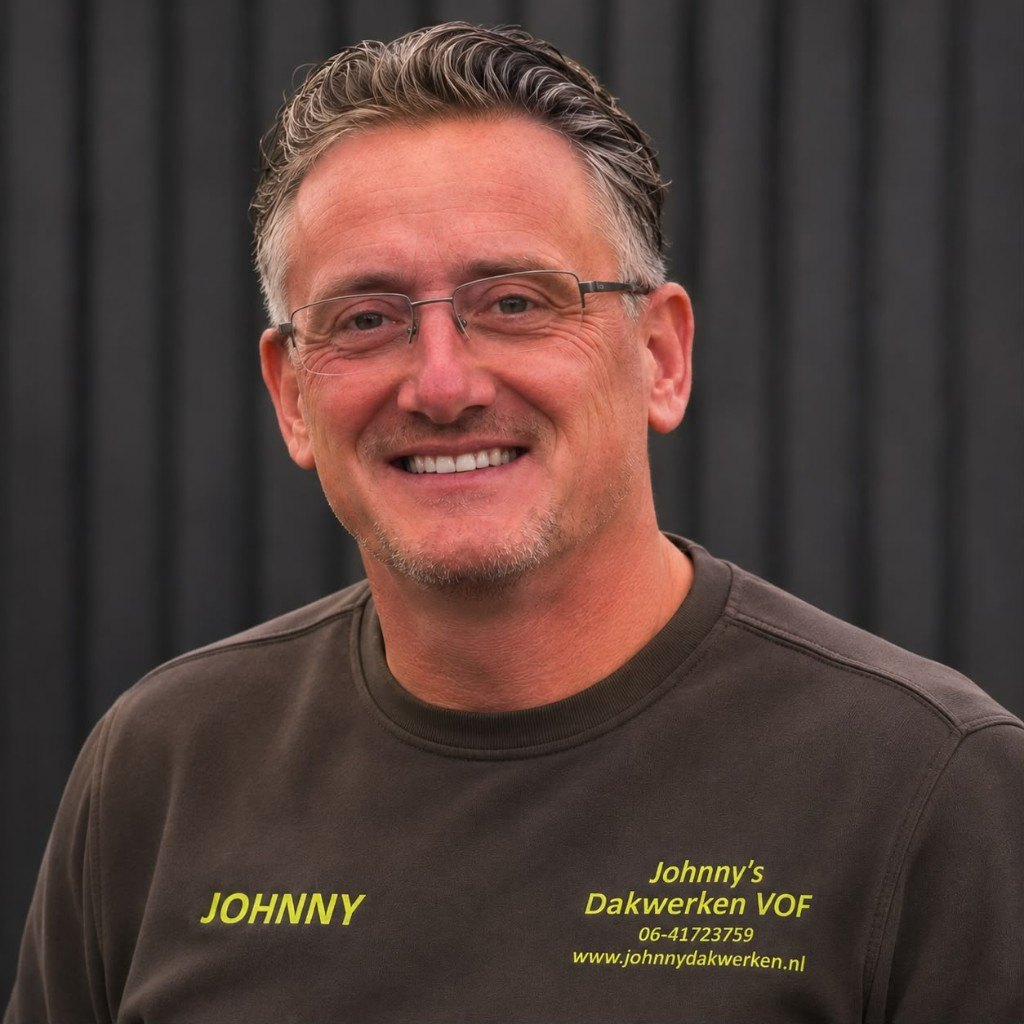
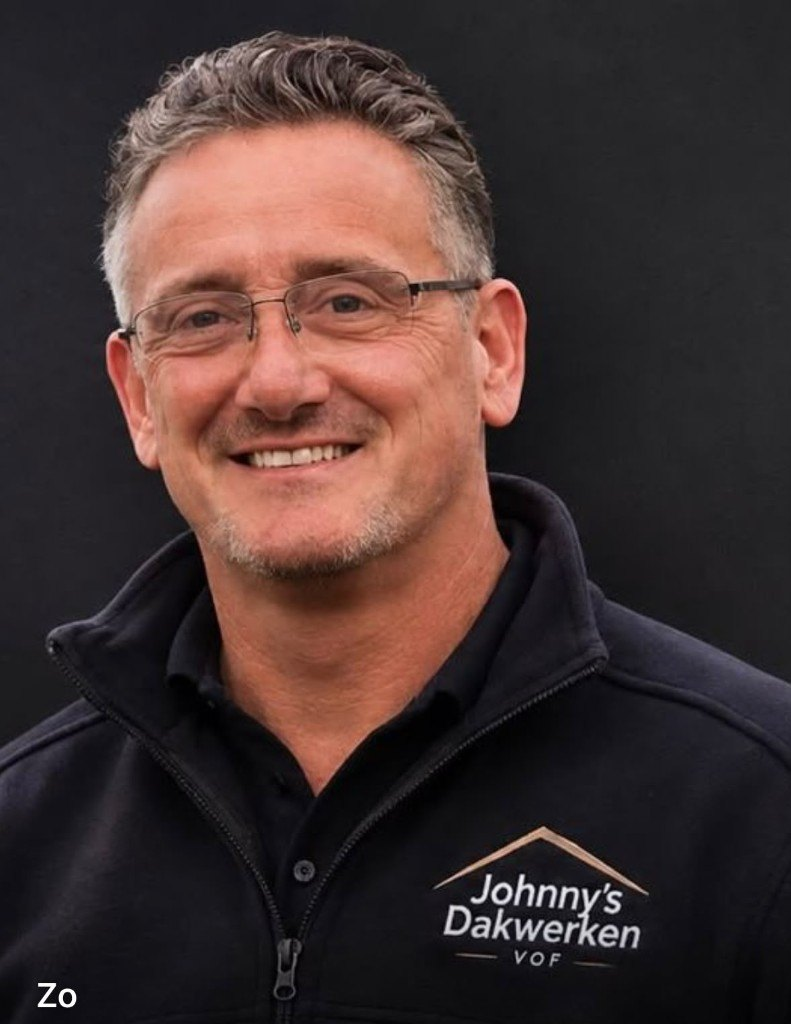
final touches

diff --git a/src/app.css b/src/app.css
@@ -142,7 +142,7 @@ html[data-style="strak"] a:focus-visible,html[data-style="strak"] button:focus-v
 /* ---- Stijlselector: centred bottom bar ---- */
 :root{
   --dock-safe:6.25rem;--header-h:4rem;
-  --section-pad:3.5rem;--section-pad-lg:5.5rem;
+  --section-pad:2.25rem;--section-pad-lg:2.5rem;
   --cta-pad-bottom:3rem;--cta-pad-bottom-lg:6rem;
 }
 @media(min-width:1024px){:root{--header-h:4.5rem}}
@@ -151,6 +151,12 @@ footer.site-f{padding-bottom:calc(var(--dock-safe) + env(safe-area-inset-bottom,
 .sec-pad{padding-top:var(--section-pad);padding-bottom:var(--section-pad)}
 @media(min-width:1024px){
   .sec-pad{padding-top:var(--section-pad-lg);padding-bottom:var(--section-pad-lg)}
+  main>.page-head:has(+ .blade-div + .steps-sec),
+  main>.page-head:has(+ .blade-div + .contact-sec){padding-bottom:.5rem}
+  html[data-style="strak"] main>.page-head:has(+ .blade-div + .steps-sec),
+  html[data-style="strak"] main>.page-head:has(+ .blade-div + .contact-sec){padding-bottom:calc(.5rem + 28px)}
+  main>.page-head + .blade-div + .steps-sec,
+  main>.page-head + .blade-div + .contact-sec{padding-top:2rem}
 }
 main .blade-div+section{padding-top:var(--section-pad)}
 @media(min-width:1024px){
@@ -400,6 +406,18 @@ html[data-style="strak"] .dienst-hero-solo .text-muted{color:#b8bec6}
   .proj-card{transform:none!important}
   .proj-card:hover{transform:none!important}
 }
+@media(min-width:768px){
+  .proj-card{display:flex;flex-direction:column;height:100%}
+  .proj-card .proj-body{display:flex;flex-direction:column;flex:1;padding:1.05rem 1.15rem 1.15rem}
+  .proj-card .proj-cap{margin-top:.4rem;line-height:1.45}
+  .proj-card .proj-more{margin-top:auto;padding-top:.9rem}
+}
+html[data-style="bruin"] .proj-card{box-shadow:none;background:#121212}
+html[data-style="bruin"] .proj-card:hover{transform:none!important;box-shadow:none!important;border-color:var(--bruin)}
+@media(min-width:768px){
+  html[data-style="bruin"] .proj-card .proj-title{font-size:1.05rem;line-height:1.3;letter-spacing:-.02em}
+  html[data-style="bruin"] .proj-card .proj-body{padding:1.15rem 1.2rem 1.2rem}
+}
 @media(min-width:1024px){
   .mobile-edge-audit-only{display:contents}
 }
@@ -444,7 +462,8 @@ html[data-style="strak"] .dienst-hero-solo .text-muted{color:#b8bec6}
   html[data-style="strak"] .hero-cta>a.r-btn{box-shadow:none!important}
 }
 .work-vid .vid-play{position:absolute;left:50%;top:50%;transform:translate(-50%,-50%);z-index:2;min-width:48px;min-height:48px}
-.work-vid-caption{padding-left:.75rem;padding-right:.75rem}
+.work-vid-wrap{margin-left:0;margin-right:auto}
+.work-vid-caption{padding-left:0;padding-right:0}
 html[data-style="strak"] .work-vid video{clip-path:polygon(0 0,calc(100% - 18px) 0,100% 18px,100% 100%,18px 100%,0 calc(100% - 18px))}
 html[data-style="strak"] .work-vid{filter:none;box-shadow:10px 10px 0 var(--lime);border:1px solid #2c3036}
 html[data-style="strak"] .work-vid video{clip-path:polygon(8% 0,100% 0,92% 100%,0 100%)}
@@ -610,8 +629,14 @@ html[data-style="bruin"] textarea{background:#101010;color:#f4f4f4;border-color:
 html[data-style="bruin"] .text-brand{color:var(--bruin)}
 html[data-style="bruin"] .bg-band{background:var(--color-band);clip-path:none}
 @media(min-width:1024px){
+  html[data-style="bruin"] main section.px-5>.mx-auto.max-w-6xl{
+    width:calc(min(72rem, 100vw) - 2.5rem);
+    max-width:calc(min(72rem, 100vw) - 2.5rem);
+  }
+}
+@media(min-width:1024px){
   .dienst-info.is-compact{grid-template-columns:1fr 1fr}
-  .dienst-info.is-compact .dienst-info-copy{grid-column:1 / -1;max-width:44rem}
+  .dienst-info.is-compact .dienst-info-copy{grid-column:1 / -1;max-width:none}
   .dienst-info.is-compact .dienst-info-aside{grid-column:1 / -1}
 }
 html[data-style="bruin"]{--sh:7,7,7}

diff --git a/src/build.py b/src/build.py
@@ -118,7 +118,7 @@ def footer():
             f'<div><p class="text-sm font-semibold uppercase tracking-[0.14em] text-white">Pagina\'s</p><ul class="mt-3 text-[15.5px]">{pg}</ul></div>'
             f'<div><p class="text-sm font-semibold uppercase tracking-[0.14em] text-white">Contact</p><ul class="mt-3 text-[15.5px]"><li><a class="inline-block py-1.5 font-semibold text-white" href="{PHONE_TEL}">{PHONE_TXT}</a></li>'
             f'<li><a class="inline-block py-1.5 hover:text-white" href="{EMAIL_MAILTO}">{EMAIL}</a></li><li class="py-1.5">Postbus 101<br/>7450 AC Holten</li><li class="py-1.5">KvK 67684351</li></ul></div></div>'
-            f'<div class="mt-12 border-t border-white/15 pt-6 text-sm text-slate-400"><p>© 2026 Johnny van Ophuizen</p></div></div></footer>')
+            f'<div class="mt-12 flex items-center justify-between gap-4 border-t border-white/15 pt-6 text-sm text-slate-400"><p>© 2026 Johnny van Ophuizen</p><a class="hover:text-white" href="https://samirdev.com" target="_blank" rel="noopener noreferrer">made by SamirDev</a></div></div></footer>')
 
 DOCK = ('<div class="style-switch-dock" aria-live="polite"><p class="style-switch-dock-label">STIJLSELECTOR</p>'
         '<div class="style-switch-dock-options" role="radiogroup" aria-label="Stijlselector">'
@@ -201,11 +201,11 @@ def work_video():
     return ('<section class="sec-pad px-5"><div class="site-hero">'
             '<p class="text-[13px] font-semibold uppercase tracking-[0.16em] text-brand">In beweging</p>'
             '<h2 class="mt-3 font-serif text-[clamp(1.35rem,2.85vw,1.85rem)] font-semibold text-ink">Aan het werk: bitumen &amp; zinkwerk</h2>'
-            '<div class="work-vid-wrap mx-auto mt-6 max-w-[880px]">'
+            '<div class="work-vid-wrap mt-6 max-w-[880px]">'
             '<div class="work-vid relative overflow-hidden r-img bg-band">'
             '<video class="block aspect-video w-full object-cover" width="960" height="540" poster="/img/video-poster.webp" muted playsinline loop preload="metadata" data-work-video>'
             '<source src="/video/bitumen_zink.mp4" type="video/mp4"/></video></div>'
-            '<p class="work-vid-caption mt-3 px-2 text-[15px] leading-snug text-muted">Johnny\'s Dakwerken aan het werk: bitumen &amp; zinkwerk</p></div></div></section>')
+            '<p class="work-vid-caption mt-3 text-[15px] leading-snug text-muted">Johnny\'s Dakwerken aan het werk: bitumen &amp; zinkwerk</p></div></div></section>')
 
 def steps_html(steps):
     return "".join(f'<li class="r-card border border-line bg-card p-6"><span class="grid h-10 w-10 place-items-center r-num bg-accent font-serif text-lg font-semibold text-white">{i+1}</span>'
@@ -241,17 +241,17 @@ def org_ld():
     return f'<script type="application/ld+json">{json.dumps(data, ensure_ascii=False)}</script>'
 
 def page_head(kicker, h1, intro):
-    return (f'<section class="sec-pad bg-surface"><div class="site-hero">'
+    return (f'<section class="page-head sec-pad bg-surface"><div class="site-hero">'
             f'<p class="flex items-center gap-2.5 text-[13px] font-semibold uppercase tracking-[0.14em] text-brand"><span class="kick-bar h-0.5 w-7 bg-accent" aria-hidden="true"></span>{kicker}</p>'
             f'<h1 class="mt-4 max-w-3xl font-serif text-[clamp(1.9rem,4.45vw,3.2rem)] font-semibold leading-[1.05] tracking-tight text-ink">{h1}</h1>'
             f'<p class="mt-5 max-w-2xl text-[clamp(17px,1.4vw,19px)] leading-relaxed text-muted">{intro}</p></div></section>')
 
-MATERIEEL = ('<section class="sec-pad px-5"><div class="site-hero r-big border border-line bg-card p-7 md:p-10"><div class="grid items-center gap-6 md:grid-cols-[1.3fr_1fr]">'
+MATERIEEL = ('<section class="sec-pad px-5"><div class="site-hero"><div class="r-big border border-line bg-card p-7 md:p-10"><div class="grid items-center gap-6 md:grid-cols-[1.3fr_1fr]">'
   '<div><p class="text-[13px] font-semibold uppercase tracking-[0.16em] text-brand">Eigen materieel</p><h2 class="mt-3 font-serif text-[clamp(1.35rem,2.85vw,1.95rem)] font-semibold leading-tight text-ink">Uitgerust voor het werk</h2>'
   '<p class="mt-3 text-[17px] text-muted">Naast vakmanschap heeft Johnny\'s Dakwerken ook eigen materieel: een ladderlift en een aanhanger met onze reclame erop.</p></div>'
   '<ul class="grid gap-3 sm:grid-cols-2 md:grid-cols-1">'
   '<li class="flex items-center gap-4 r-img bg-surface p-4"><span class="grid h-12 w-12 shrink-0 place-items-center r-sm bg-accent text-white"><svg class="h-6 w-6" viewBox="0 0 24 24" fill="none" stroke="currentColor" stroke-width="2" aria-hidden="true"><path d="M7 3v18M17 3v18M7 7h10M7 12h10M7 17h10"/></svg></span><span class="font-semibold text-ink">Ladderlift</span></li>'
-  '<li class="flex items-center gap-4 r-img bg-surface p-4"><span class="grid h-12 w-12 shrink-0 place-items-center r-sm bg-accent text-white"><svg class="h-6 w-6" viewBox="0 0 24 24" fill="none" stroke="currentColor" stroke-width="2" aria-hidden="true"><path d="M2 7h14v9H2zM16 10h4l2 3v3h-6"/><circle cx="7" cy="18" r="2"/><circle cx="18" cy="18" r="2"/></svg></span><span class="font-semibold text-ink">Aanhanger met onze reclame</span></li></ul></div></div></section>')
+  '<li class="flex items-center gap-4 r-img bg-surface p-4"><span class="grid h-12 w-12 shrink-0 place-items-center r-sm bg-accent text-white"><svg class="h-6 w-6" viewBox="0 0 24 24" fill="none" stroke="currentColor" stroke-width="2" aria-hidden="true"><path d="M2 7h14v9H2zM16 10h4l2 3v3h-6"/><circle cx="7" cy="18" r="2"/><circle cx="18" cy="18" r="2"/></svg></span><span class="font-semibold text-ink">Aanhanger</span></li></ul></div></div></div></section>')
 
 def stats(wide=False):
     items = [("20+", "Jaar ervaring"), ("NL", "Heel Nederland · vanuit Deventer")]
@@ -288,7 +288,7 @@ def home():
       f'<p class="text-[13px] font-semibold uppercase tracking-[0.16em] text-brand">Aan het werk</p><h2 class="mt-3 font-serif text-[clamp(1.55rem,3.55vw,2.45rem)] font-semibold leading-tight text-ink">Vakwerk op uw dak</h2>'
       f'<p class="mt-4 max-w-md text-lg text-muted">Johnny\'s Dakwerken pakt het dakwerk aan met vakkennis en eigen materieel. Vraag een offerte aan of bel voor een vrijblijvende inspectie.</p><div class="mt-6">{hero_cta()}</div></div><div>{roofer_art()}</div></div></section>'
       f'<section class="sec-pad border-y border-line bg-band px-5"><div class="mx-auto grid max-w-6xl items-center gap-6 md:grid-cols-[auto_1fr] md:gap-14">'
-      f'<div class="relative aspect-[4/5] w-full overflow-hidden r-img shadow-xl md:aspect-[3/4] md:w-[260px]"><img src="/img/johnny.jpg" alt="Johnny van Ophuizen" loading="eager" class="absolute inset-0 h-full w-full object-cover" style="object-position:50% 42%"/></div>'
+      f'<div class="relative aspect-[4/5] w-full overflow-hidden r-img shadow-xl md:aspect-[3/4] md:w-[260px]"><img src="/img/johnny.jpg?v=2" alt="Johnny van Ophuizen" loading="eager" class="absolute inset-0 h-full w-full object-cover" style="object-position:50% 42%"/></div>'
       f'<div><p class="text-[13px] font-semibold uppercase tracking-[0.16em] text-brand">Over ons</p>'
       f'<h2 class="mt-3 font-serif text-[clamp(1.55rem,3.55vw,2.45rem)] font-medium leading-tight text-ink">Even voorstellen: Johnny</h2>'
       f'<p class="mt-4 max-w-2xl text-lg text-muted">Met ruim +20 jaar ervaring in het dakdekkersvak weet Johnny als geen ander wat er komt kijken bij goed en vakkundig dakwerk. Samen met zijn team van ervaren vakmensen staat hij iedere dag klaar om kwaliteit en vakmanschap te leveren.</p>'
@@ -354,7 +354,13 @@ def dienst(d):
     g = d.get("gallery") or []
     if g:
         spans = ["lg:col-span-2"] * 3 + ["lg:col-span-3"] * 2 if len(g) == 5 else ["lg:col-span-2"] * len(g)
-        gi = "".join(f'<a class="gal group relative block aspect-[4/3] overflow-hidden r-img bg-band {sp}" href="{big}" target="_blank" rel="noopener"><img src="{sm}" alt="{esc(al)}" loading="eager" width="720" height="540" class="absolute inset-0 h-full w-full object-cover transition duration-500 group-hover:scale-[1.04]"/></a>' for (sm, big, al), sp in zip(g, spans))
+        bits = []
+        for (sm, big, al), sp in zip(g, spans):
+            wide = "pan8" in big
+            frame = "aspect-[16/9] sm:col-span-2 lg:col-span-6" if wide else f"aspect-[4/3] {sp}"
+            dims = 'width="960" height="540"' if wide else 'width="720" height="540"'
+            bits.append(f'<a class="gal group relative block overflow-hidden r-img bg-band {frame}" href="{big}" target="_blank" rel="noopener"><img src="{sm}" alt="{esc(al)}" loading="eager" {dims} class="absolute inset-0 h-full w-full object-cover transition duration-500 group-hover:scale-[1.04]"/></a>')
+        gi = "".join(bits)
         gallery = (f'<section class="sec-pad px-5"><div class="site-hero"><p class="text-[13px] font-semibold uppercase tracking-[0.16em] text-brand">Foto\'s</p>'
                    f'<h2 class="mb-8 mt-3 font-serif text-[clamp(1.35rem,2.85vw,1.85rem)] font-semibold text-ink">Werk van Johnny\'s Dakwerken</h2><div class="grid gap-4 sm:grid-cols-2 lg:grid-cols-6">{gi}</div></div></section>')
     blocks = ""
@@ -382,7 +388,7 @@ def werkwijze():
     pts = ["Ruim 20 jaar ervaring in dakbedekking", "Kwaliteit en service staan voorop", "Advies per ondergrond", "Spoed bij lekkage of schade", "Vrijblijvende inspectie"]
     ptsh = "".join(f'<li class="flex gap-3">{CHECK}<span class="text-[16px] text-ink">{p}</span></li>' for p in pts)
     body = (page_head("Werkwijze", "Zo werken wij", "Van uw eerste bericht tot een waterdicht dak: in vier stappen, zonder gedoe.") +
-      f'<section class="sec-pad px-5"><div class="site-hero"><ol class="grid gap-5 sm:grid-cols-2 lg:grid-cols-4">{steps_html(long_steps)}</ol>'
+      f'<section class="steps-sec sec-pad px-5"><div class="site-hero"><ol class="grid gap-5 sm:grid-cols-2 lg:grid-cols-4">{steps_html(long_steps)}</ol>'
       f'<div class="mt-12 overflow-hidden r-big"><div class="relative aspect-[16/9] w-full md:aspect-[21/8]"><img src="/img/panorama.jpg" alt="De IJssel en de skyline van Deventer" loading="eager" class="absolute inset-0 h-full w-full object-cover"/></div></div></div></section>'
       f'<section class="sec-pad border-y border-line bg-band px-5"><div class="mx-auto grid max-w-6xl gap-10 md:grid-cols-2 md:gap-16"><div>{sec_head("Wat u mag verwachten", "Dakdekker voor heel Nederland")}'
       f'<p class="-mt-6 text-lg text-muted">Johnny\'s Dakwerken is actief door heel Nederland, met Deventer als vestiging. Voor bitumineuze en kunststof dakbedekking bent u bij ons aan het juiste adres.</p></div>'
@@ -401,7 +407,7 @@ def over():
     body = (f'<section class="sec-pad bg-surface"><div class="site-hero over-ons-hero">'
       f'<p class="over-kicker flex items-center gap-2.5 text-[13px] font-semibold uppercase tracking-[0.14em] text-brand"><span class="kick-bar h-0.5 w-7 bg-accent" aria-hidden="true"></span>Over ons</p>'
       f'<h1 class="over-title mt-1 font-serif text-[clamp(1.8rem,4.45vw,3rem)] font-medium leading-[1.08] tracking-tight text-ink">Even voorstellen: Johnny</h1>'
-      f'<div class="over-photo-wrap"><div class="over-photo-in r-img shadow-md"><img src="/img/johnny.jpg" alt="Johnny van Ophuizen" loading="eager" width="320" height="400"/></div></div>'
+      f'<div class="over-photo-wrap"><div class="over-photo-in r-img shadow-md"><img src="/img/johnny.jpg?v=2" alt="Johnny van Ophuizen" loading="eager" width="320" height="400"/></div></div>'
       f'<div class="over-intro mt-2 flex flex-col gap-4 max-w-2xl">{intro}</div></div></section>'
       f'<section class="sec-pad px-5"><div class="mx-auto max-w-6xl">'
       f'<div class="r-card border border-line bg-card p-6 md:p-8"><h3 class="font-serif text-xl font-medium text-ink">De materialen waarmee wij werken</h3><ul class="mt-5 flex flex-wrap gap-2.5">{mats}</ul>'
@@ -417,7 +423,7 @@ def projecten():
         for sm, big, al in dd.get("gallery", []):
             ALT[big.split("/")[-1][:-5]] = al
     ALT.update({"bit2": "Bitumineuze dakbedekking met opstaande randen", "zin6": "Zinken dakbedekking met sluitnaden", "pan1": "Dakpannen met een zinken goot", "pvc1": "Wit PVC-dak met dakdoorvoeren"})
-    order = ["pvc1", "bit1", "zin6", "pan5", "bit3", "zin3", "pan3", "bit4"]
+    order = ["pvc1", "bit1", "zin6", "pan5", "bit3", "zin3", "bit4"]
     cards = ""
     for n in order:
         sl, lab = P[n[:3]]
@@ -454,7 +460,7 @@ def offerte():
 
 def contact():
     body = (page_head("Contact", "Neem contact op met Johnny's Dakwerken", "Bel of mail voor spoed, advies of een vrijblijvende offerte. Bij lekkage of schade komen wij zo spoedig mogelijk bij u langs.") +
-      f'<section class="sec-pad px-5"><div class="mx-auto grid max-w-6xl gap-5 md:grid-cols-3">'
+      f'<section class="contact-sec sec-pad px-5"><div class="mx-auto grid max-w-6xl gap-5 md:grid-cols-3">'
       f'<div class="r-card border border-line bg-card p-6 md:col-span-2 md:p-8"><h2 class="font-serif text-2xl font-semibold text-ink">Direct in contact</h2><p class="mt-3 max-w-xl text-[17px] text-muted">Vraag een offerte aan, bel ons of stuur een e-mail. Voeg gerust een foto van uw dak of de schade toe.</p><div class="mt-6">{contact_cta(dark=False)}</div>'
       f'<p class="mt-6 text-[16px] text-muted">Liever een offerte op schrift? <a class="font-semibold text-brand" href="/offerte/">Vraag een offerte aan →</a></p></div>'
       f'<div class="r-card border border-line bg-card p-6 md:p-8"><h2 class="font-serif text-2xl font-semibold text-ink">Gegevens</h2><dl class="mt-5 space-y-4 text-[16px]">'

diff --git a/src/data.py b/src/data.py
@@ -119,7 +119,7 @@ D = [
   card="Ook voor dakpannen bent u bij Johnny's Dakwerken aan het juiste adres.",
   kicker="Dienst · Hellende daken",
   intro="Naast platte daken doen wij ook pannendaken. Vertel wat er aan de hand is; we bekijken het ter plekke.",
-  photo="/img/werk/pan5.webp", alt="Pannendak tijdens het leggen van nieuwe dakpannen", pos="50% 32%", card_photo="/img/werk/pan5-s.webp", card_alt="Pannendak tijdens het leggen van nieuwe dakpannen", card_pos="50% 32%", gallery=[("/img/werk/pan5-s.webp", "/img/werk/pan5.webp", "Pannendak tijdens het leggen van nieuwe dakpannen"), ("/img/werk/pan6-s.webp", "/img/werk/pan6.webp", "Ladderlift van Johnny's Dakwerken op de aanhanger"), ("/img/werk/pan7-s.webp", "/img/werk/pan7.webp", "Ladderlift van Johnny's Dakwerken langs een woongebouw"), ("/img/werk/pan2-s.webp", "/img/werk/pan2.webp", "Pannendak met aansluitend plat dak"), ("/img/werk/pan3-s.webp", "/img/werk/pan3.webp", "Dakraam in een pannendak met zinken afwerking"), ("/img/werk/pan4-s.webp", "/img/werk/pan4.webp", "Zinken goot langs een pannendak")],
+  photo="/img/werk/pan5.webp", alt="Pannendak tijdens het leggen van nieuwe dakpannen", pos="50% 32%", card_photo="/img/werk/pan5-s.webp", card_alt="Pannendak tijdens het leggen van nieuwe dakpannen", card_pos="50% 32%", gallery=[("/img/werk/pan5-s.webp", "/img/werk/pan5.webp", "Pannendak tijdens het leggen van nieuwe dakpannen"), ("/img/werk/pan6-s.webp", "/img/werk/pan6.webp", "Ladderlift van Johnny's Dakwerken op de aanhanger"), ("/img/werk/pan7-s.webp", "/img/werk/pan7.webp", "Ladderlift van Johnny's Dakwerken langs een woongebouw"), ("/img/werk/pan8-s.webp", "/img/werk/pan8.webp", "Bus en aanhanger van Johnny's Dakwerken met ladderlift")],
   h2="Pannendaken in heel Nederland",
   paras=["Wij werken niet alleen met bitumen, kunststof, shingles en zink, maar doen ook pannendaken.",
          "Heeft u een lekkage of schade aan uw dak, of is uw dak aan vervanging toe? Neem contact op voor een vrijblijvende inspectie. Ter plekke bekijken we wat er nodig is en adviseren we u."],
